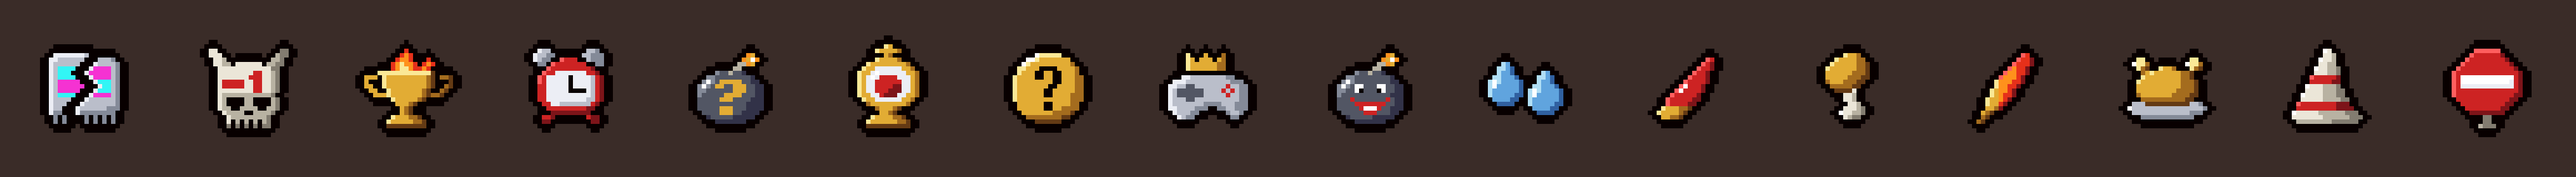
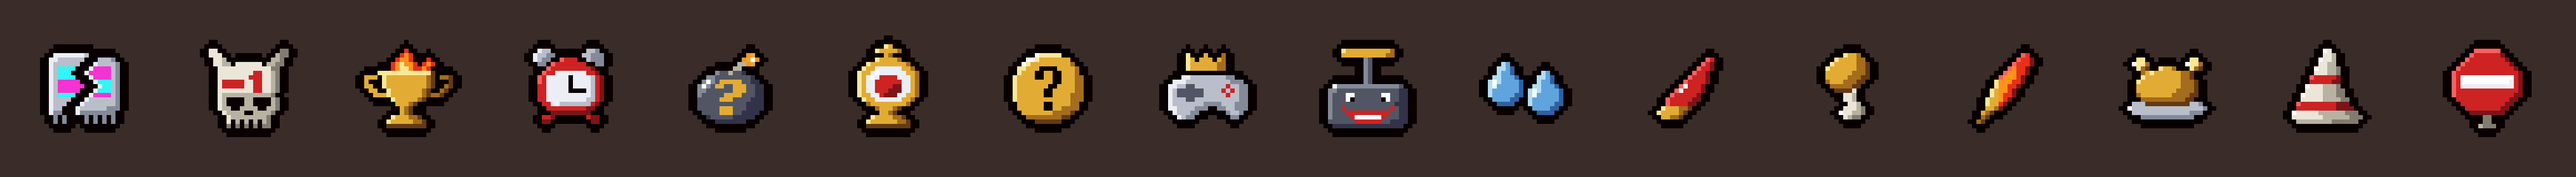
sprites: La Trollata diventa un detonatore
Era la stessa bomba di Potrebbe Stare Qua e a 1x si confondevano (0,91).

Changed region(s): [[0.5, 0.2188, 0.5625, 0.7812]]

diff --git a/tools/sprites.py b/tools/sprites.py
@@ -224,23 +224,25 @@ SPRITES = {
         "  wgggmm      mggm  ",
         "   wgmm        mm   ",
     ],
-    "la_trollata": [  # Troll bomb con occhi storti e ghigno rosso
-        "             OY  ",
-        "            OYWO ",
-        "           ssOY  ",
-        "          ss     ",
-        "      mddsddn    ",
-        "    mmddddddddn  ",
-        "   mWmddddddddnn ",
-        "  mWmdWWdddWWddnn",
-        "  mmddWKdddKWddnn",
-        "  mdddddddddddnnn",
-        "  dddRdddddddRdnn",
-        "  ddddRRRRRRRddnn",
-        "  dddddRWWWRddnnn",
-        "   dddddRRRdddnn ",
-        "    ndddddnnnnn  ",
-        "      nnnnnnn    ",
+    "la_trollata": [  # Detonatore a stantuffo con occhi storti e ghigno rosso: le bombe compaiono sui nemici
+        "   LYYYYYYYYYYy   ",
+        "   YYYYYYYYYYyy   ",
+        "        md        ",
+        "        md        ",
+        "        md        ",
+        "        md        ",
+        "        md        ",
+        "        md        ",
+        " Wmmmmmmmmmmmmmmd ",
+        "mmddddddddddddddnn",
+        "mdddWWddddddWWddnn",
+        "mdddWKddddddKWddnn",
+        "mddddddddddddddnnn",
+        "mddRddddddddddRdnn",
+        "mdddRRRRRRRRRRddnn",
+        "mddddRWWWWWWRdddnn",
+        "ddddddRRRRRRddnnnn",
+        " nnnnnnnnnnnnnnnn ",
     ],
     "fai_cosi": [  # Due lacrime gemelle
         "    aA              ",

diff --git a/docs/standard-grafici.md b/docs/standard-grafici.md
@@ -119,7 +119,7 @@ Prima di confermare un nuovo sprite, verificare:
 ## 7. Come Creare un'Icona Nuova
 
 1. **Scegli un'idea sola.** L'icona mostra un oggetto concreto che richiama il tormentone. Le scritte non servono: a 32x32 non si leggono, al massimo un numero o un simbolo di 1-2 caratteri.
-2. **Cerca una forma libera.** Controlla la tavola di riferimento e le icone della mod: se la forma è già presa, cambiala. Un dettaglio interno diverso non basta: `la_trollata` e `potrebbe_stare_qua` sono la stessa bomba con una faccia o un `?`, e a 1x si confondono.
+2. **Cerca una forma libera.** Controlla la tavola di riferimento e le icone della mod: se la forma è già presa, cambiala. Un dettaglio interno diverso non basta: `la_trollata` e `potrebbe_stare_qua` erano la stessa bomba con una faccia o un `?` e a 1x si confondevano, così `la_trollata` è diventata un detonatore.
 3. **Disegna prima la silhouette.** Riempila con un colore solo nella griglia di `SPRITES` (16-20 pixel per lato, il contorno ne aggiunge 2 per parte). Se così non si riconosce, nessun dettaglio la salverà.
 4. **Assegna una tinta dominante.** Sceglila dal ricettario della sezione 5, diversa da quella delle icone con forma simile.
 5. **Aggiungi volume e un solo dettaglio chiave.** Luce in alto a sinistra e ombra in basso a destra. Il dettaglio chiave deve differire dallo sfondo per luminosità, non solo per tinta: il rosso sulla pelle sparisce in grigi.

diff --git a/docs/da-fare-su-windows.md b/docs/da-fare-su-windows.md
@@ -56,7 +56,7 @@ Apri la console con il tasto `\` (quello sopra Invio, oppure `ò`/`ù` sulla tas
 - [x] Le icone di La Trollata, Fai Così, Fai Così e Mannaggia a Lui si vedono.
 - [ ] `giveitem Tacchinardi`, `giveitem Tacchinibus`, `giveitem Il Tacchino della Domenica`: ognuno dà i suoi cuori; al terzo compare **"SEI UN TACCHINO!"** e il danno sale di 1, la velocità scende di 0.1.
 - [ ] `giveitem Sono un Idiota` e `giveitem Fermi Tutti`: compaiono *Sono un idiota!* e *Fermi tutti!*, e le statistiche non cambiano.
-- [ ] Le 16 icone hanno il contorno da 2px: guardale sul piedistallo e nell'HUD, e controlla che siano leggibili accanto agli oggetti vanilla. Fai attenzione al "-1" di -1 al Dead God e a Il Miracolo di San Gennaruzzo, che potrebbe sembrare una pozione.
+- [ ] Le 16 icone hanno il contorno da 2px: guardale sul piedistallo e nell'HUD, e controlla che siano leggibili accanto agli oggetti vanilla. Fai attenzione al "-1" di -1 al Dead God e a Il Miracolo di San Gennaruzzo, che potrebbe sembrare una pozione, e al nuovo detonatore di La Trollata.
 
 Facoltativo, se ci arrivi: The Beast deve mostrare **"IL BEASTY BOY"**, Mega Satan **"MEGA STANLEY KUBRICK"**, Peep **"PIPPOLINS"** (The Bloat invece niente). Battere un boss finale (Satan, The Lamb, Mother…) deve mostrare **"Un bacione grande / dal vostro Risacca"**.
 
